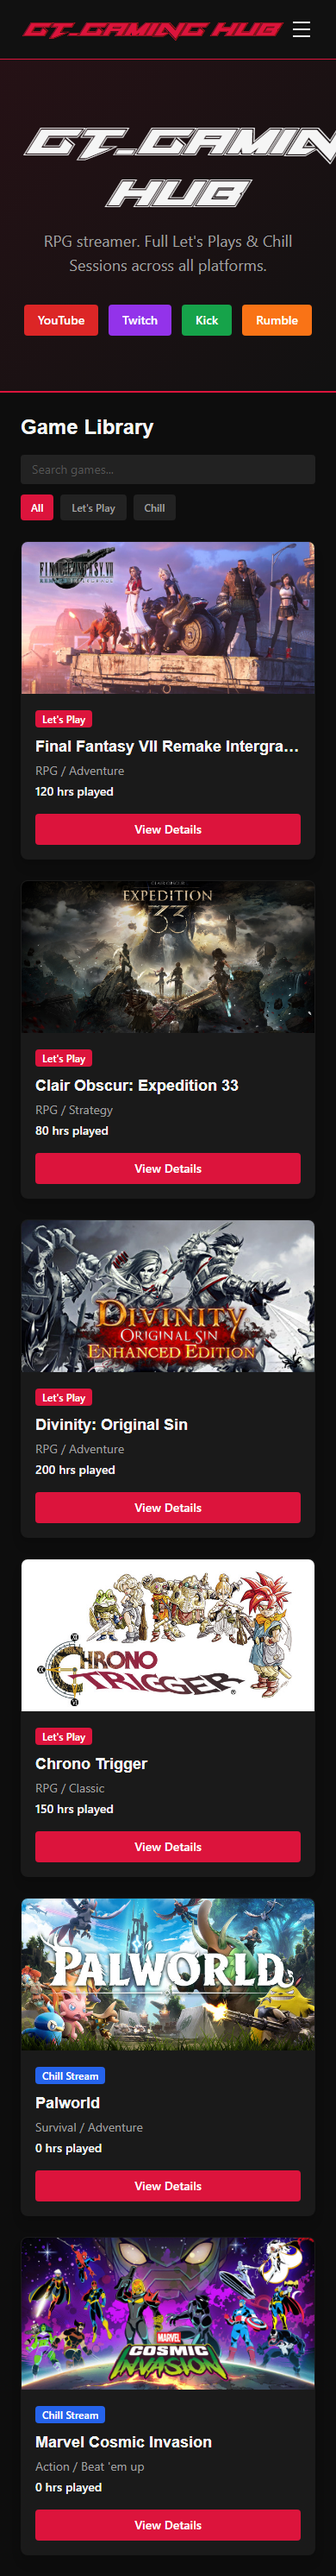
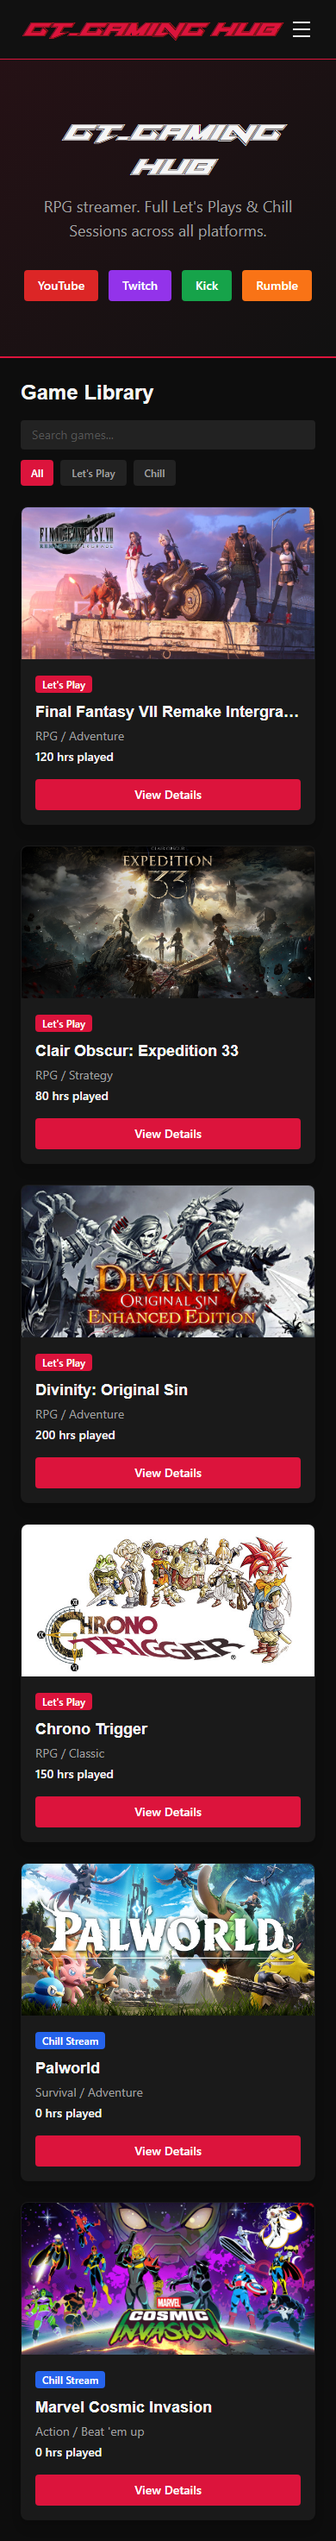
fixed H1 header in home.html for mobile viewport.

diff --git a/src/app/features/home/home.html b/src/app/features/home/home.html
@@ -9,7 +9,8 @@
 
   <div class="relative z-10">
     <!-- [CL-11.2] SEO: One h1 per page — the primary page heading -->
-    <h1 class="text-6xl font-tarrget italic mb-3
+    <!-- [CL-1.2] Responsiveness: font scales up at wider breakpoints to prevent overflow on mobile -->
+    <h1 class="text-4xl sm:text-5xl md:text-6xl font-tarrget italic mb-3
                text-textPrimary dark:text-textPrimary-dark">
       GT_Gaming Hub
     </h1>
